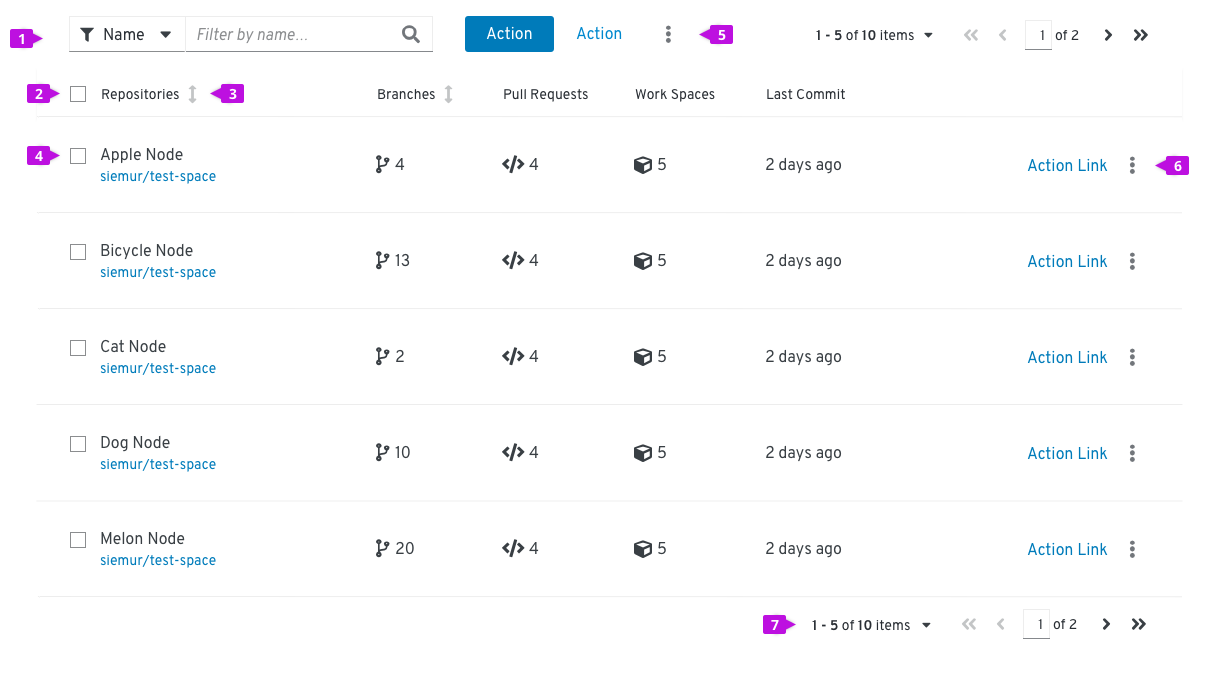
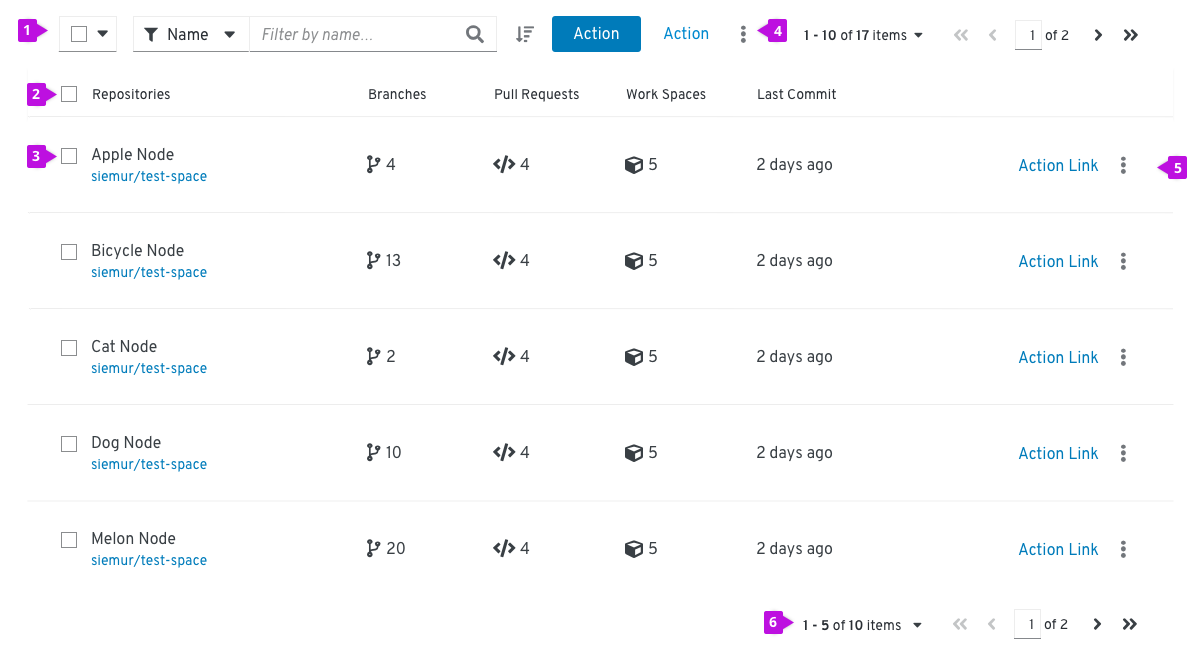
content update to lists/tables - add sortable table

diff --git a/packages/patternfly-4/content/design-guidelines/usage-and-behavior/lists-and-tables/design.md b/packages/patternfly-4/content/design-guidelines/usage-and-behavior/lists-and-tables/design.md
@@ -67,6 +67,7 @@ The expandable list adds an expansion panel to every row to reveal more details 
 Use an expandable data list when you have more information than will comfortably fit inside a row, or you want to provide a way for advanced users to access information that is not applicable to all users.
 
 ## Data tables
+In general, PatternFly supports several variations of the data table component. Here are where they differentiate the most.
 * **Standard data table**: combines the styling of a list view with behaviors that are commonly associated with a table (sometimes referred to as a hybrid list)
 * **Compact data table**: maximizes the amount of data that can be displayed in a small space
 
@@ -74,13 +75,12 @@ Use an expandable data list when you have more information than will comfortably
 
 ![standard data table](img/standard-data-table.png)
 
-1. **[Toolbar](../toolbar/design.md)**: sits above the list and contains controls for manipulating table data. Common actions include filtering, sorting, and pagination.
-2. **Select all**: when present, selects all items in a table. If pagination is being used, this will only select items on the current page.
-3. **Column headers**: should align with the content they contain. If the user is able to sort on a column, the first click on the header will sort the content of the table on the content in that column. Subsequent clicks will toggle the direction of the sort. Table data can only be sorted on one column at a time.
-4. **Select checkbox**: selects this row
-5. **Global actions**: actions that apply to all selected items
-6. **Inline actions:** actions that apply only to the current row/item
-7. **Pagination footer:** when present, provides navigation to additional pages
+1. **[Toolbar](/design-guidelines/usage-and-behavior/toolbar)**: sits above the table and contains controls for manipulating table data. Common actions include filtering, sorting, and pagination.
+2. **Select all and column headers**: when present, selects all items in a table. If pagination is being used, this will only select items on the current page. Column headers should align with the content they contain.
+3. **Select checkbox**: selects this row
+4. **Global actions**: actions that apply to all selected items
+5. **Inline actions:** actions that apply only to the current row/item
+6. **Pagination footer:** when present, provides navigation to additional pages
 
 #### When to use
 Use a standard data table when the information you want to display fits into a structured, tabular format (i.e. has distinct rows and columns).
@@ -90,6 +90,17 @@ Do not use for less structured or variably structured data that cannot be easily
 
 #### How to use
 Consider the structure of the data you want to display and organize that information into columns. Columns will typically have column headers. Every row within a table must have a consistent format. If the table row includes actions, they should always be placed in the rightmost column(s).
+
+### Sortable data table
+
+![sortable data table](img/sortable-data-table.png)
+
+1. **Sorted column**: when a column is being sorted by, the column header will turn blue and the sort icon will represent the direction of the sort. Subsequent clicks on the sortable column header will toggle the direction of the sort.
+2. **Hovered sort**: when a column is sortable, the sort icon will appear to the right of the column header. Upon hover, the  icon will change to a darker grey indicating that the icon is actionable.
+3. **Sortable column**: when a column is sortable, the sort icon will appear to the right of the column header in a light grey color. Sorting will not become active until the user selects the column header. This triggers the arrow to point upwards and the content to be sorted in ascending order.
+
+#### When to use
+Use a sortable data table over a standard data table. When column headers allow for sorting, it eases the ability to scan and read through the content. This is desired for data tables rather than adding sorting functionality to the toolbar.
 
 ### Compact data table
 
